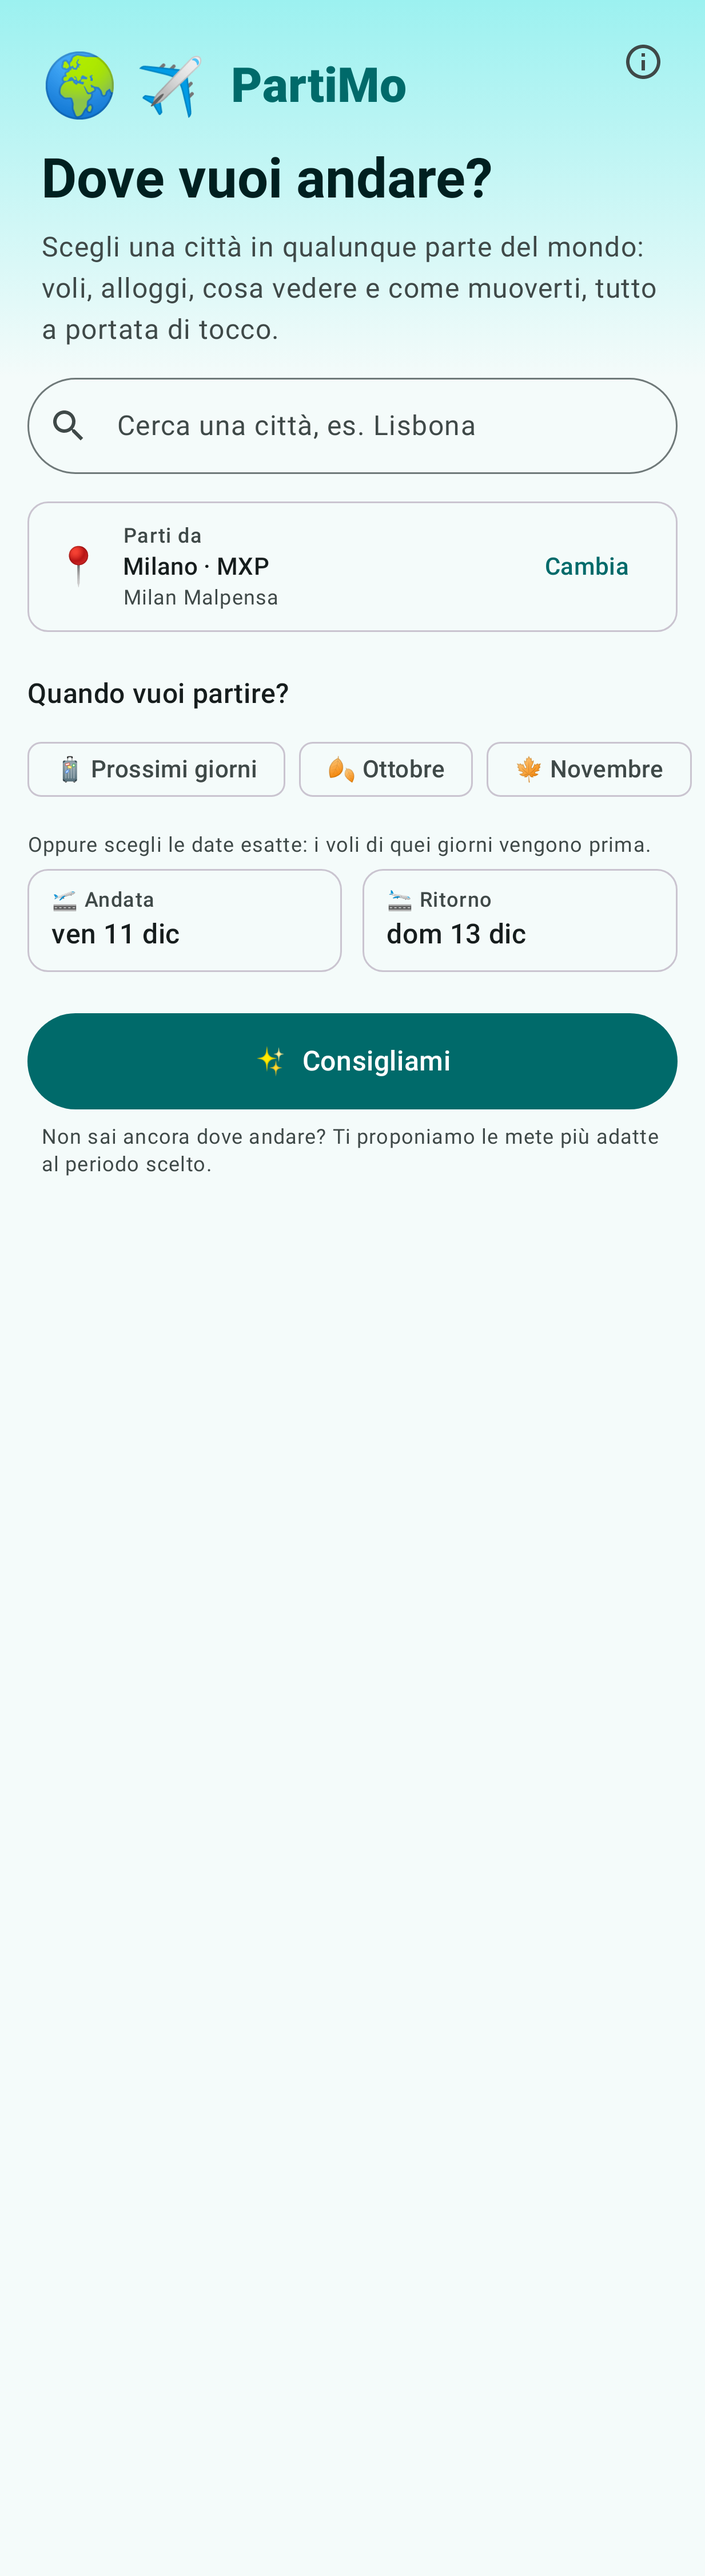
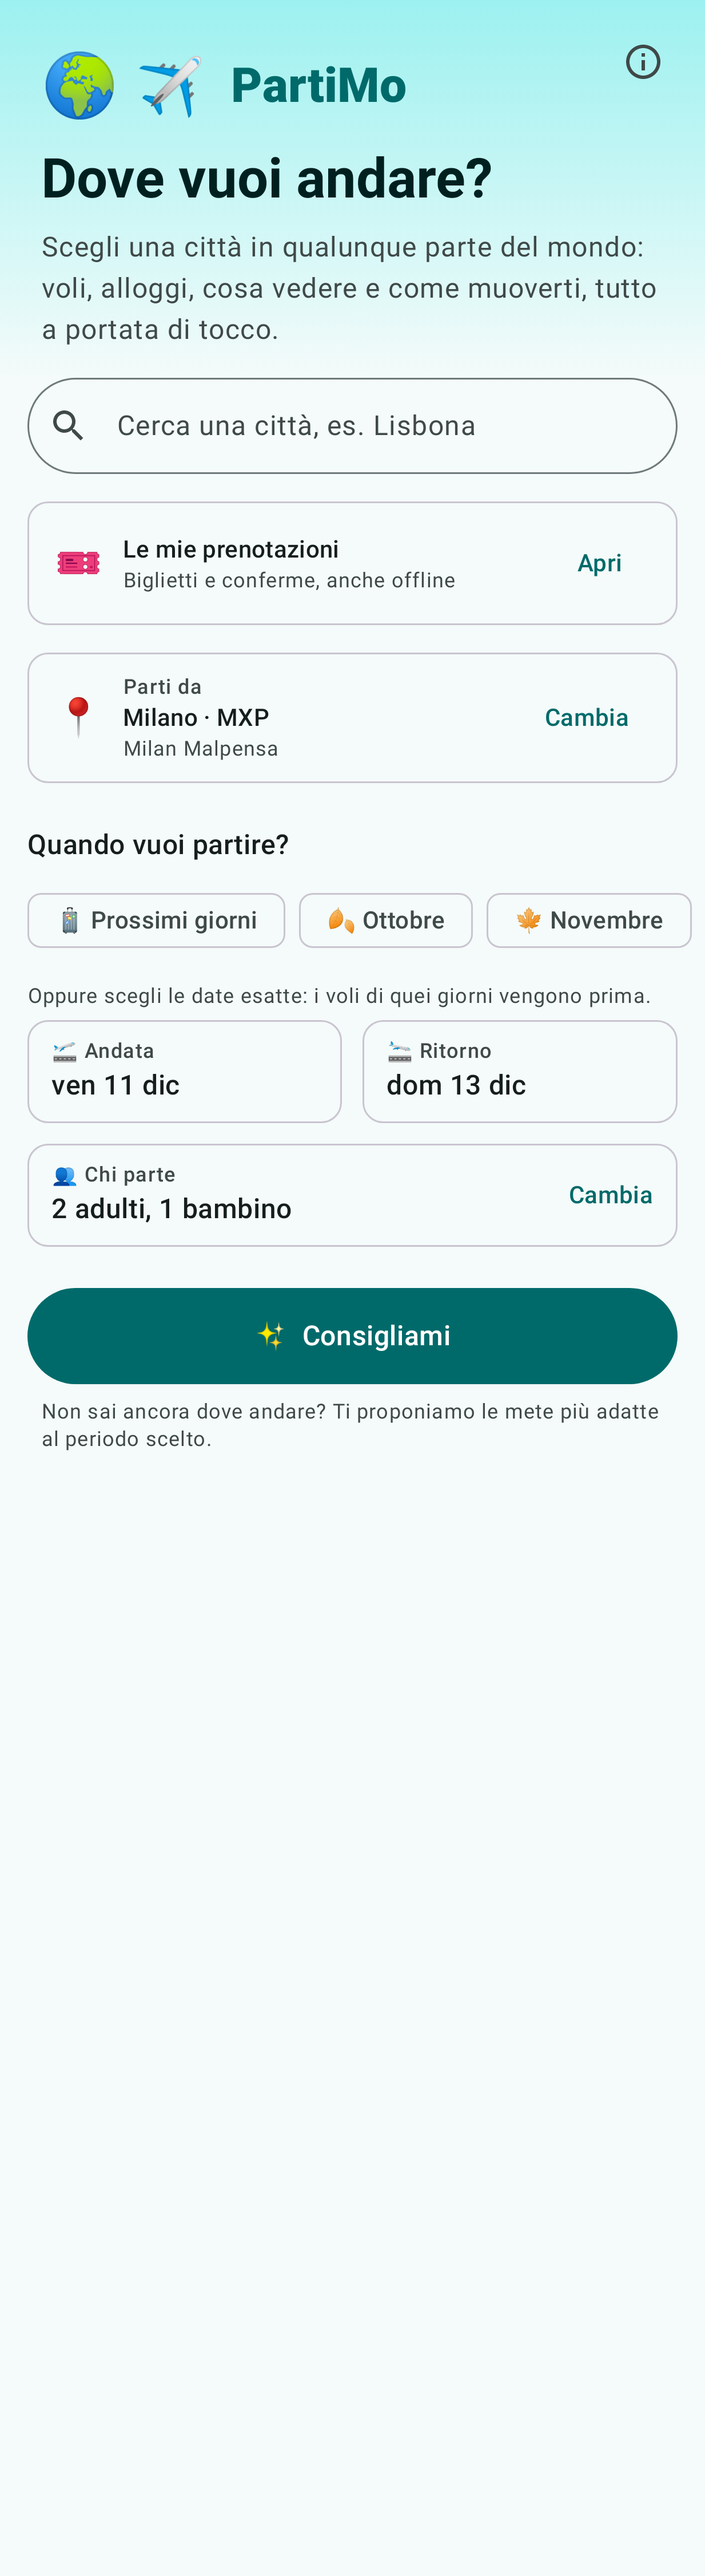
PartiMo 1.3.0: test, screenshot e documentazione
Versione 1.3.0 (versionCode 13). Nuovi test UI con screenshot per i prezzi dei mesi
e il calendario dei prezzi; screenshot aggiornati (prenotazioni nella schermata
iniziale e nella dashboard, foto nel traduttore) e nuovi nel README (Ovunque,
calendario, voli per una famiglia). README con i 626 test, le note tecniche su
riconoscimento del testo e prenotazioni e il peso dell'APK.

Claude-Session: https://claude.ai/code/session_01NAtsGYoC7BvKrxSauCHSCT

diff --git a/app/src/testDebug/kotlin/com/partimo/app/ui/dashboard/PriceCalendarTest.kt b/app/src/testDebug/kotlin/com/partimo/app/ui/dashboard/PriceCalendarTest.kt
@@ -1,0 +1,93 @@
+package com.partimo.app.ui.dashboard
+
+import android.graphics.Bitmap
+import androidx.activity.ComponentActivity
+import androidx.annotation.StringRes
+import androidx.compose.foundation.layout.padding
+import androidx.compose.material3.Surface
+import androidx.compose.ui.Modifier
+import androidx.compose.ui.platform.testTag
+import androidx.compose.ui.test.assertIsEnabled
+import androidx.compose.ui.test.assertIsNotEnabled
+import androidx.compose.ui.test.junit4.v2.createAndroidComposeRule
+import androidx.compose.ui.test.onNodeWithContentDescription
+import androidx.compose.ui.test.onNodeWithTag
+import androidx.compose.ui.test.onNodeWithText
+import androidx.compose.ui.test.performClick
+import androidx.compose.ui.unit.dp
+import androidx.core.view.drawToBitmap
+import com.partimo.app.R
+import com.partimo.app.testing.UiTestApplication
+import com.partimo.app.ui.dashboard.components.PriceCalendarActions
+import com.partimo.app.ui.dashboard.components.PriceCalendarContent
+import com.partimo.app.ui.dashboard.components.priceDayTag
+import com.partimo.app.ui.theme.PartiMoTheme
+import com.partimo.domain.model.flight.FareSnapshot
+import org.junit.Rule
+import org.junit.runner.RunWith
+import org.robolectric.RobolectricTestRunner
+import org.robolectric.annotation.Config
+import org.robolectric.annotation.GraphicsMode
+import java.io.File
+import java.time.LocalDate
+import kotlin.math.roundToInt
+import kotlin.test.Test
+import kotlin.test.assertEquals
+import kotlin.test.assertTrue
+
+/** Test UI del calendario dei prezzi, sulla JVM con Robolectric. */
+@RunWith(RobolectricTestRunner::class)
+@GraphicsMode(GraphicsMode.Mode.NATIVE)
+@Config(sdk = [34], application = UiTestApplication::class, qualifiers = "w412dp-h915dp-xxhdpi")
+class PriceCalendarTest {
+
+    @get:Rule
+    val composeRule = createAndroidComposeRule<ComponentActivity>()
+
+    private fun text(@StringRes id: Int, vararg args: Any): String = composeRule.activity.getString(id, *args)
+
+    private val state = PreviewData.priceCalendarState().priceCalendar!!
+
+    @Test
+    fun `ogni giorno mostra il prezzo e un tocco porta le date della sua tariffa`() {
+        val selected = mutableListOf<FareSnapshot>()
+        val months = mutableListOf<Int>()
+        composeRule.setContent {
+            PartiMoTheme {
+                Surface {
+                    PriceCalendarContent(state, PriceCalendarActions(onDaySelected = { selected += it }, onMonthChanged = { months += it }))
+                }
+            }
+        }
+
+        composeRule.onNodeWithText("Dicembre 2026").assertExists()
+        composeRule.onNodeWithTag(priceDayTag(LocalDate.of(2026, 12, 1))).assertIsNotEnabled()
+        composeRule.onNodeWithTag(priceDayTag(LocalDate.of(2026, 12, 7))).assertIsEnabled().performClick()
+        composeRule.onNodeWithContentDescription(text(R.string.price_calendar_previous)).performClick()
+        composeRule.onNodeWithContentDescription(text(R.string.price_calendar_next)).performClick()
+
+        assertEquals(listOf(LocalDate.of(2026, 12, 7) to LocalDate.of(2026, 12, 10)), selected.map { it.departureDate to it.returnDate })
+        assertEquals(listOf(-1, 1), months)
+    }
+
+    @Test
+    fun `salva lo screenshot del calendario dei prezzi`() {
+        composeRule.setContent {
+            PartiMoTheme { Surface(Modifier.testTag(CALENDAR_TAG)) { PriceCalendarContent(state, PriceCalendarActions(), Modifier.padding(16.dp)) } }
+        }
+        composeRule.waitForIdle()
+
+        // Solo il calendario, senza lo spazio vuoto sotto.
+        val bounds = composeRule.onNodeWithTag(CALENDAR_TAG).fetchSemanticsNode().boundsInWindow
+        val window = composeRule.activity.window.decorView.rootView.drawToBitmap()
+        val top = bounds.top.roundToInt().coerceIn(0, window.height - 1)
+        val bitmap = Bitmap.createBitmap(window, 0, top, window.width, bounds.bottom.roundToInt().coerceIn(top + 1, window.height) - top)
+        val screenshot = File("build/outputs/screenshots/price_calendar.png").apply { parentFile?.mkdirs() }
+        screenshot.outputStream().use { stream -> bitmap.compress(Bitmap.CompressFormat.PNG, 100, stream) }
+        assertTrue(screenshot.length() > 0, "Screenshot non generato")
+    }
+
+    private companion object {
+        const val CALENDAR_TAG = "price_calendar"
+    }
+}

diff --git a/app/src/testDebug/kotlin/com/partimo/app/ui/dashboard/TripDashboardScreenTest.kt b/app/src/testDebug/kotlin/com/partimo/app/ui/dashboard/TripDashboardScreenTest.kt
@@ -274,6 +274,19 @@ class TripDashboardScreenTest {
     }
 
     @Test
+    fun `i mesi mostrano il prezzo più basso e dai voli si apre il calendario dei prezzi`() {
+        var calendars = 0
+        showDashboard(PreviewData.monthPricesState(), DashboardActions(onOpenPriceCalendar = { calendars++ }))
+
+        composeRule.onNodeWithText(" · " + text(R.string.month_price_from, Formatters.money(Money.of(72, "EUR")))).assertExists()
+        composeRule.onNodeWithTag(TRIP_TOOLS_TAG).assertExists()
+        composeRule.onNodeWithText(text(R.string.price_calendar_open)).performClick()
+        saveScreenshot("trip_dashboard_months.png")
+
+        assertEquals(1, calendars)
+    }
+
+    @Test
     fun `per una famiglia i voli mostrano il totale e il prezzo a persona e chi parte si cambia da lì`() {
         val chosen = mutableListOf<Travellers>()
         showDashboard(PreviewData.familyFlightPricesState(), DashboardActions(onTravellersSelected = { chosen += it }))

diff --git a/README.md b/README.md
@@ -103,7 +103,7 @@ Altri strumenti del viaggio, tutti senza chiavi:
 - Widget **Prossimo viaggio** per la schermata Home, con il conto alla rovescia.
 - **Fonti, licenze e privacy** (ⓘ nella schermata iniziale).
 
-<img src="docs/search_ideas.png" alt="Schermata iniziale con partenza, mesi e consigli" width="240" /> <img src="docs/search_dates.png" alt="Celle Andata e Ritorno con le date esatte del viaggio" width="240" /> <img src="docs/trip_dashboard_dates.png" alt="Voli nelle date scelte, poi quelli dei giorni vicini" width="240" /> <img src="docs/departure_picker.png" alt="Scelta dell'aeroporto di partenza" width="240" /> <img src="docs/trip_dashboard_flights.png" alt="Dashboard: voli con i prezzi reali trovati su Aviasales nel mese scelto" width="240" /> <img src="docs/trip_dashboard.png" alt="Dashboard: sezione Voli con i collegamenti a Google Voli e Skyscanner" width="240" /> <img src="docs/trip_dashboard_stays.png" alt="Dashboard: alloggi reali da OpenStreetMap con Booking.com e Airbnb" width="240" /> <img src="docs/trip_dashboard_explore.png" alt="Dashboard: sezione Da vedere" width="240" /> <img src="docs/place_detail.png" alt="Scheda di un luogo con descrizione, storia e pulsante Naviga" width="240" /> <img src="docs/trip_dashboard_transit.png" alt="Dashboard: trasporti con il percorso reale su Google Maps" width="240" /> <img src="docs/trip_dashboard_restaurants.png" alt="Dashboard: ristoranti reali da OpenStreetMap" width="240" /> <img src="docs/guide.png" alt="Guida del viaggio: meteo, alba e tramonto, informazioni pratiche ed emergenze" width="240" /> <img src="docs/guide_currency.png" alt="Guida con previsioni giorno per giorno e cambio valuta" width="240" /> <img src="docs/itinerary.png" alt="Itinerario con l'IA giorno per giorno, con giro a piedi e calendario" width="240" /> <img src="docs/itinerary_packing.png" alt="Lista per la valigia dell'itinerario" width="240" /> <img src="docs/chat.png" alt="Chiedi a PartiMo: domande all'assistente sul viaggio" width="240" /> <img src="docs/favorites.png" alt="Preferiti del viaggio con mappa, giro a piedi e condivisione" width="240" /> <img src="docs/translator.png" alt="Traduttore con Ascolta, Copia, Mostra in grande e frasario" width="240" /> <img src="docs/translator_pack.png" alt="Traduttore al primo uso: pacchetto lingua da scaricare" width="240" /> <img src="docs/translator_photo.png" alt="Traduci con la fotocamera: il menù tradotto sopra la foto" width="240" /> <img src="docs/budget.png" alt="Budget del viaggio con spese in euro e in corone" width="240" /> <img src="docs/bookings.png" alt="Le mie prenotazioni: voli, alloggio e attività giorno per giorno" width="240" /> <img src="docs/booking_editor.png" alt="Andata e ritorno letti dal PDF del biglietto, da controllare e salvare" width="240" /> <img src="docs/about.png" alt="Fonti, licenze e privacy" width="240" />
+<img src="docs/search_ideas.png" alt="Schermata iniziale con partenza, mesi e consigli" width="240" /> <img src="docs/search_dates.png" alt="Celle Andata e Ritorno con le date esatte del viaggio" width="240" /> <img src="docs/search_anywhere.png" alt="Ovunque: le mete più economiche da Milano a dicembre" width="240" /> <img src="docs/trip_dashboard_dates.png" alt="Voli nelle date scelte, poi quelli dei giorni vicini" width="240" /> <img src="docs/trip_dashboard_months.png" alt="Prezzo più basso di ogni mese sui chip e calendario dei prezzi" width="240" /> <img src="docs/price_calendar.png" alt="Calendario dei prezzi: il prezzo di ogni giorno di partenza, colorato per fascia" width="240" /> <img src="docs/departure_picker.png" alt="Scelta dell'aeroporto di partenza" width="240" /> <img src="docs/trip_dashboard_flights.png" alt="Dashboard: voli con i prezzi reali trovati su Aviasales nel mese scelto" width="240" /> <img src="docs/trip_dashboard_family.png" alt="Voli per 2 adulti e un bambino: totale e prezzo a persona" width="240" /> <img src="docs/trip_dashboard.png" alt="Dashboard: sezione Voli con i collegamenti a Google Voli e Skyscanner" width="240" /> <img src="docs/trip_dashboard_stays.png" alt="Dashboard: alloggi reali da OpenStreetMap con Booking.com e Airbnb" width="240" /> <img src="docs/trip_dashboard_explore.png" alt="Dashboard: sezione Da vedere" width="240" /> <img src="docs/place_detail.png" alt="Scheda di un luogo con descrizione, storia e pulsante Naviga" width="240" /> <img src="docs/trip_dashboard_transit.png" alt="Dashboard: trasporti con il percorso reale su Google Maps" width="240" /> <img src="docs/trip_dashboard_restaurants.png" alt="Dashboard: ristoranti reali da OpenStreetMap" width="240" /> <img src="docs/guide.png" alt="Guida del viaggio: meteo, alba e tramonto, informazioni pratiche ed emergenze" width="240" /> <img src="docs/guide_currency.png" alt="Guida con previsioni giorno per giorno e cambio valuta" width="240" /> <img src="docs/itinerary.png" alt="Itinerario con l'IA giorno per giorno, con giro a piedi e calendario" width="240" /> <img src="docs/itinerary_packing.png" alt="Lista per la valigia dell'itinerario" width="240" /> <img src="docs/chat.png" alt="Chiedi a PartiMo: domande all'assistente sul viaggio" width="240" /> <img src="docs/favorites.png" alt="Preferiti del viaggio con mappa, giro a piedi e condivisione" width="240" /> <img src="docs/translator.png" alt="Traduttore con Ascolta, Copia, Mostra in grande e frasario" width="240" /> <img src="docs/translator_pack.png" alt="Traduttore al primo uso: pacchetto lingua da scaricare" width="240" /> <img src="docs/translator_photo.png" alt="Traduci con la fotocamera: il menù tradotto sopra la foto" width="240" /> <img src="docs/budget.png" alt="Budget del viaggio con spese in euro e in corone" width="240" /> <img src="docs/bookings.png" alt="Le mie prenotazioni: voli, alloggio e attività giorno per giorno" width="240" /> <img src="docs/booking_editor.png" alt="Andata e ritorno letti dal PDF del biglietto, da controllare e salvare" width="240" /> <img src="docs/about.png" alt="Fonti, licenze e privacy" width="240" />
 
 Negli screenshot (generati dai test, senza rete, con dati di esempio) le foto sono segnaposto grigi: nell'app si caricano
 le foto reali dei luoghi. La mappa non è tra gli screenshot: i test girano sulla JVM, dove la libreria
@@ -363,8 +363,8 @@ Ogni push su `main` e ogni pull request passano dalla CI di GitHub Actions
 (`.github/workflows/android.yml`): test unitari e APK di debug senza chiavi, scaricabile come
 artefatto. Dependabot propone gli aggiornamenti delle librerie ogni settimana.
 
-514 test unitari:
-- **`:domain` (197):** modelli e validazioni (compresi i dodici mesi di `TravelPeriod`, le date esatte con
+626 test unitari:
+- **`:domain` (240):** modelli e validazioni (compresi i dodici mesi di `TravelPeriod`, le date esatte con
   i giorni vicini, le date flessibili dei voli con le notti del soggiorno e i periodi degli eventi, anche a
   cavallo di Capodanno), servizi di dominio (qualità/prezzo, stagionalità,
   notorietà dei luoghi, scelta degli aeroporti, rilevamento degli affari, estratti brevi di descrizione
@@ -374,8 +374,12 @@ artefatto. Dependabot propone gli aggiornamenti delle librerie ogni settimana.
   apertura su orari **reali** dei ristoranti di Vienna e alba e tramonto confrontati con i valori
   **reali** di Open-Meteo (più Sydney e la notte polare di Tromsø), viaggi salvati e preferiti, lingua
   del traduttore proposta per paese, CO₂ dei mezzi, budget con i cambi, promemoria prima della
-  partenza e preparazione offline, con fake condivisi tramite `testFixtures`.
-- **`:data` (134):** cache e TTL, mappatura degli errori, client HTTP con risposte JSON simulate
+  partenza e preparazione offline, chi parte (adulti, bambini e neonati in braccio), prezzi dei mesi,
+  calendario dei prezzi con le fasce e «Ovunque», backup con l'unione dei dati, lettura delle conferme
+  di prenotazione (voli Ryanair, easyJet e ITA con andata e ritorno, alloggi, treni; date in italiano e
+  in inglese) con i promemoria nel fuso dell'aeroporto e traduzione delle foto (righe dei menù,
+  scritture leggibili sul telefono), con fake condivisi tramite `testFixtures`.
+- **`:data` (155):** cache e TTL, mappatura degli errori, client HTTP con risposte JSON simulate
   (Duffel, Places, Routes, Open-Meteo, Wikipedia, Overpass, Wikidata, Nager.Date), prezzi dei voli con
   risposte **reali** della Data API di Aviasales (Roma–Vienna a ottobre e dicembre, Milano–Londra a
   novembre in `data/src/test/resources/travelpayouts`: ricerca per città, soggiorni da 2 a 7 notti,
@@ -392,12 +396,15 @@ artefatto. Dependabot propone gli aggiornamenti delle librerie ogni settimana.
   Android, dataset aeroporti reale (es. Roma → FCO, Parigi → CDG), catalogo delle mete, repository
   DataStore e formato di salvataggio (anche la valigia, i viaggi salvati, i preferiti, il budget e i
   promemoria già mostrati), lingue dei
-  paesi come codici per il traduttore, mercato simulato della demo.
-- **`:app` (183):** ViewModel (dashboard con e senza chiavi, voli su tutto il mese o nelle date scelte con i prezzi di Aviasales, celle Andata e Ritorno con il calendario, eventi del soggiorno, ricerca, scelta della
+  paesi come codici per il traduttore, prezzi dei mesi, dei giorni e «Ovunque» da risposte **reali**
+  di Aviasales con i nomi delle città in italiano, formato del backup e delle prenotazioni (i documenti
+  restano sul telefono), registro dei promemoria, mercato simulato della demo.
+- **`:app` (231):** ViewModel (dashboard con e senza chiavi, voli su tutto il mese o nelle date scelte con i prezzi di Aviasales, celle Andata e Ritorno con il calendario, eventi del soggiorno, ricerca, scelta della
   partenza, scheda del luogo, itinerario, domande all'assistente, guida con convertitore di valuta e
   fuso orario con l'ora legale, preferiti e viaggi salvati, mappa con filtri e «solo preferiti»,
-  traduttore con pacchetti lingua, inversione e frasario, budget, «Dove sono»), notifiche dei
-  promemoria, widget, come arrivare con la CO₂, biglietti, fonti e licenze, testi degli orari di apertura, rotte di navigazione, collegamenti a
+  traduttore con pacchetti lingua, inversione e frasario, budget, «Dove sono», prenotazioni con la lettura di testo, PDF e foto e andata e ritorno da salvare
+  uno alla volta, traduzione delle foto, backup, chi parte, calendario dei prezzi e «Ovunque»), notifiche
+  dei promemoria (anche delle prenotazioni), condivisione con PartiMo di mail, PDF e foto, widget, come arrivare con la CO₂, biglietti, fonti e licenze, testi degli orari di apertura, rotte di navigazione, collegamenti a
   Google Maps (anche il giro a piedi con le tappe), Google Voli, Skyscanner, Booking.com, Airbnb e
   ricerca degli eventi, calendario e condivisione dell'itinerario, browser interno (Custom Tabs),
   User-Agent delle foto, notifiche (Robolectric), formattazione e test UI Compose con
@@ -541,7 +548,7 @@ artefatto. Dependabot propone gli aggiornamenti delle librerie ogni settimana.
   compresse; si generano gli APK `arm64-v8a` (quasi tutti i telefoni), `armeabi-v7a` (vecchi telefoni
   a 32 bit) e `universal`. La build di rilascio passa da R8, che toglie le parti inutilizzate delle
   librerie senza offuscare il codice dell'app (JSON, Room, WorkManager, rotte e widget usano i nomi
-  delle classi): l'APK universale scende da circa 42 a 23 MB. È firmata con la chiave di PartiMo, come
+  delle classi): l'APK universale scende da oltre 40 a circa 25 MB. È firmata con la chiave di PartiMo, come
   le versioni di debug, quindi si installa sopra di loro (vedi «Firma dell'app»).
 - **Icona:** il logo di PartiMo come icona adattiva. Il primo piano è il logo a tutto quadrato (WebP per
   ogni densità, con i bordi estesi oltre l'area visibile), così il launcher applica la sua forma:
